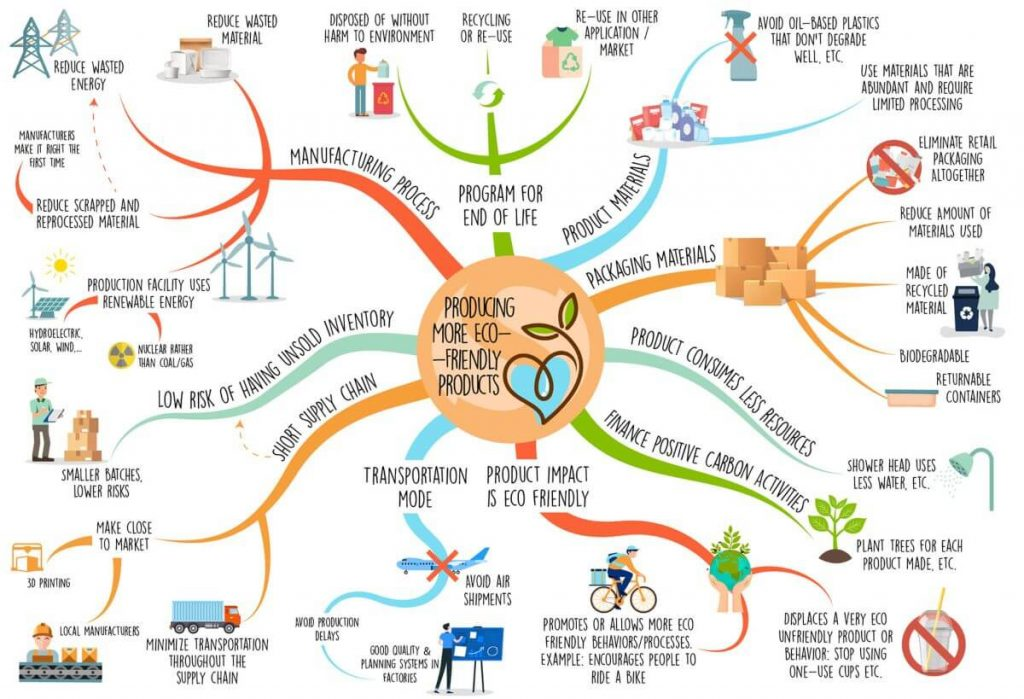
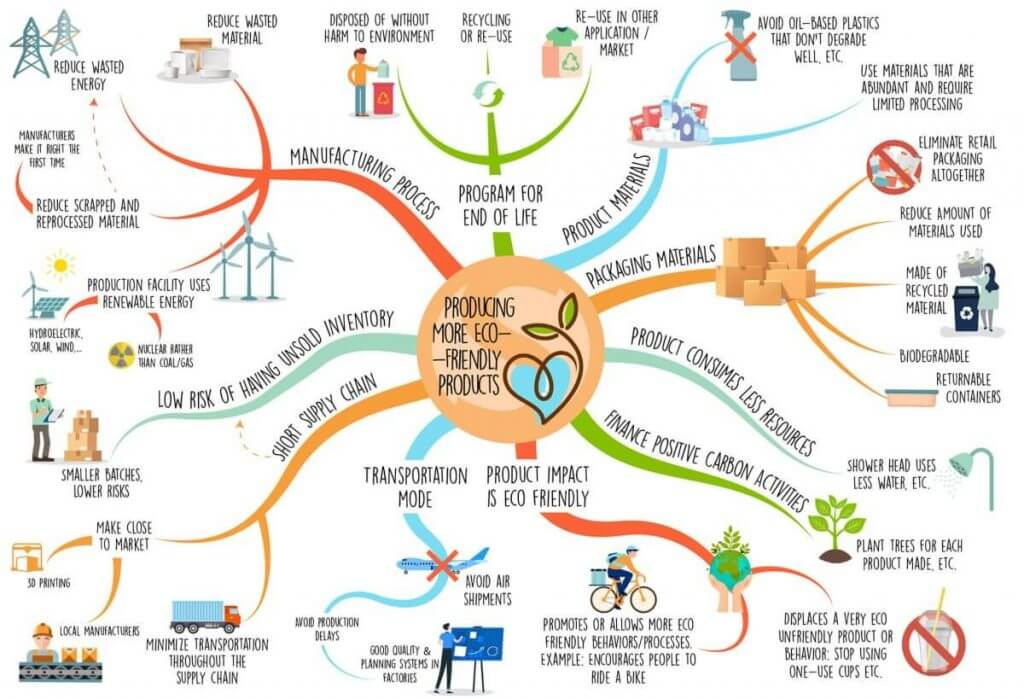
hgv

diff --git a/friendly.html b/friendly.html
@@ -37,11 +37,11 @@
 
     <main class="home-grid">
         <section class="tip1-card">
-            <img class="card-img" src="images/eco-products2.png" alt="sustainabil tip1">
+            <img class="card-img" src="images/eco-products2.webp" alt="sustainabil tip1">
             <h2>products 1</h2>
         </section>
         <section class="Tip2-card">
-            <img class="card-img" src="images/eco-products3.png" alt="sustainabil tip">
+            <img class="card-img" src="images/eco-products3.webp" alt="sustainabil tip">
             <h2>products 2</h2>
         </section>
         <section class="Final-card"></section>
